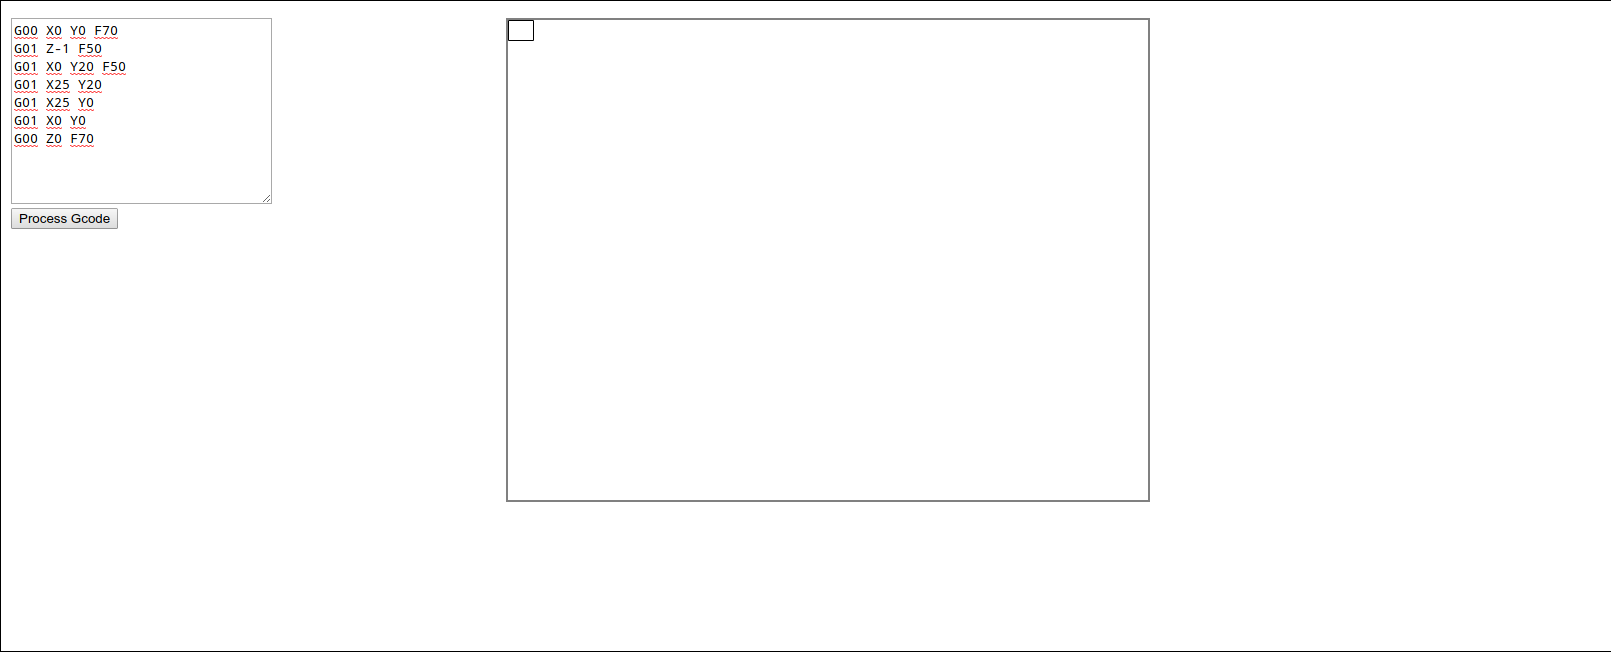
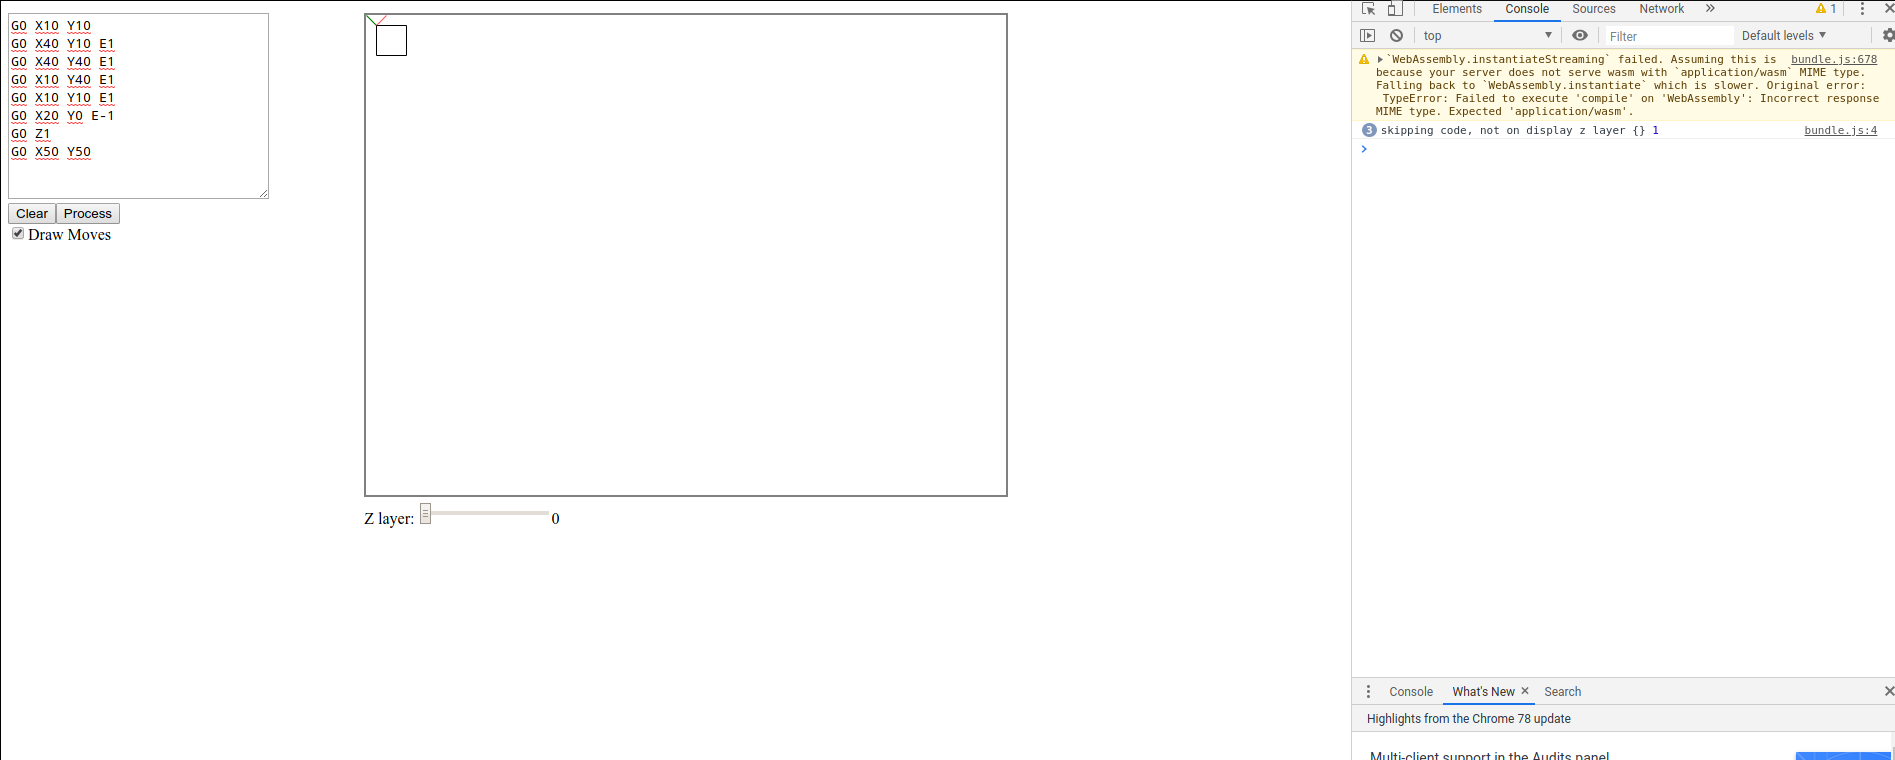
improve rendering for G0

diff --git a/src/app.rs b/src/app.rs
@@ -1,19 +1,24 @@
-use yew::prelude::*;
+use gcode::{GCode, Mnemonic};
 use stdweb::{
+    console,
     traits::*,
     unstable::TryInto,
-    console,
-    web::{
-        document,
-        html_element::CanvasElement,
-        CanvasRenderingContext2d,
-    },
+    web::{document, html_element::CanvasElement, CanvasRenderingContext2d},
 };
-use gcode::Mnemonic;
+use yew::prelude::*;
 
 #[derive(Debug)]
+struct Location {
+    x: f64,
+    y: f64,
+    z: f64,
+}
+#[derive(Debug)]
 struct State {
-  input: String,
+    input: String,
+    location: Location,
+    display_z: f64,
+    draw_moves: bool,
 }
 
 pub struct App {
@@ -21,8 +26,11 @@ pub struct App {
 }
 
 pub enum Msg {
+    Clear,
+    DrawMove,
     ProcessGcode,
     UpdateInput(String),
+    UpdateZ(String),
 }
 
 impl Component for App {
@@ -30,20 +38,29 @@ impl Component for App {
     type Properties = ();
 
     fn create(_: Self::Properties, _: ComponentLink<Self>) -> Self {
-        let state = State{input: "".to_string()};
-        App {state}
+        let state = State {
+            input: "".to_string(),
+            location: Location {
+                x: 0.,
+                y: 0.,
+                z: 0.,
+            },
+            display_z: 0.,
+            draw_moves: true,
+        };
+        App { state }
     }
 
     fn update(&mut self, msg: Self::Message) -> ShouldRender {
         match msg {
             Msg::ProcessGcode => {
-                {
-                    self.state.draw_map(&self.state.input);
-                }
-                self.state.input = "".to_string();
+                self.state.draw_map(&self.state.input.clone());
             }
-            Msg::UpdateInput(val) => {
-                self.state.input = val;
+            Msg::DrawMove => self.state.draw_moves = !self.state.draw_moves,
+            Msg::UpdateInput(val) => self.state.input = val,
+            Msg::UpdateZ(val) => self.state.display_z = val.parse::<f64>().unwrap(),
+            Msg::Clear => {
+                self.state.input = "".to_string();
             }
         }
         true
@@ -67,7 +84,12 @@ impl App {
             <div class="column left">
                 <textarea id="gcode_input" rows="10" cols="30" value=&self.state.input oninput=|e| Msg::UpdateInput(e.value)/>
                 <br/>
-                <button onclick=|_| Msg::ProcessGcode>{"Process Gcode"}</button>
+                <button onclick=|_| Msg::Clear>{"Clear"}</button>
+                <button onclick=|_| Msg::ProcessGcode>{"Process"}</button>
+                <div>
+                    <input type="checkbox" id="draw_move" checked=self.state.draw_moves onclick=|_| Msg::DrawMove/>
+                    {"Draw Moves"}
+                </div>
             </div>
         }
     }
@@ -76,13 +98,16 @@ impl App {
         html! {
             <div class="column middle">
                 <canvas id="gcode_canvas" width="640" height="480"></canvas>
+                <br/>
+                {"Z layer: "}<input type="range" id="display_z_slider" value=&self.state.display_z oninput=|e| Msg::UpdateZ(e.value)/>
+                {self.state.display_z}
             </div>
         }
     }
 }
 
 impl State {
-    fn draw_map(&self, gcode: &str) {
+    fn draw_map(&mut self, gcode: &str) {
         let canvas: CanvasElement = document()
             .query_selector("#gcode_canvas")
             .unwrap()
@@ -92,9 +117,11 @@ impl State {
         let context: CanvasRenderingContext2d = canvas.get_context().unwrap();
 
         context.clear_rect(0., 0., canvas.width() as f64, canvas.height() as f64);
-        context.set_line_width(1.0);
-        context.begin_path();
-        context.set_fill_style_color("black");
+        self.location = Location {
+                x: 0.,
+                y: 0.,
+                z: 0.,
+            };     
         // fix for blurry lines
         context.translate(0.5, 0.5);
         context.move_to(0.0, 0.0);
@@ -103,22 +130,59 @@ impl State {
         for line in lines {
             for code in line.gcodes() {
                 match code.mnemonic() {
-                    Mnemonic::General => {
-                        match code.major_number() {
-                            0 | 1 => {
-                                if let Some(x) = code.value_for('x') {
-                                    if let Some(y) = code.value_for('y') {
-                                        //console!(log, format!("line to {} {}", x, y));
-                                        context.line_to(x.into(),y.into());
-                                    }
-                                }
-                            },
-                            _ => {},
+                    Mnemonic::General => match code.major_number() {
+                        0 | 1 => {
+                            self.parse_G0(code, &context);
                         }
+                        _ => {}
                     },
-                    _ => {},
+                    _ => {}
                 }
             }
+        }
+        context.translate(-0.5, -0.5);
+    }
+
+    #[allow(non_snake_case)]
+    fn parse_G0(&mut self, code: &GCode, context: &CanvasRenderingContext2d) {
+        if let Some(z) = code.value_for('z') {
+            self.location.z = z as f64;
+        }
+
+        let mut draw = self.draw_moves;
+        let mut color = "black";
+
+        match code.value_for('e') {
+            Some(e) => {
+                draw = true;
+                if e < 0. {
+                    // color retracts red
+                    color = "red";
+                }
+            },
+            // if moves are drawn color them green
+            None => color = "green",
+        }
+        context.set_line_width(1.0);
+        context.begin_path();
+        context.set_stroke_style_color(color);
+        context.move_to(self.location.x, self.location.y);
+        if let Some(x) = code.value_for('x') {
+            self.location.x = x.into();
+        }
+        if let Some(y) = code.value_for('y') {
+            self.location.y = y.into();
+        }
+
+        // TODO: figure out how wide the z drawing should be (above and below current z)
+        // if the code isn't on the display layer don't draw
+        if self.location.z - self.display_z > 0.1 || self.location.z - self.display_z < -0.1 {
+            console!(log, "skipping code, not on display z layer {}", self.location.z - self.display_z);
+            draw = false;
+        }
+        
+        if draw {
+            context.line_to(self.location.x, self.location.y);
         }
         context.stroke();
     }
